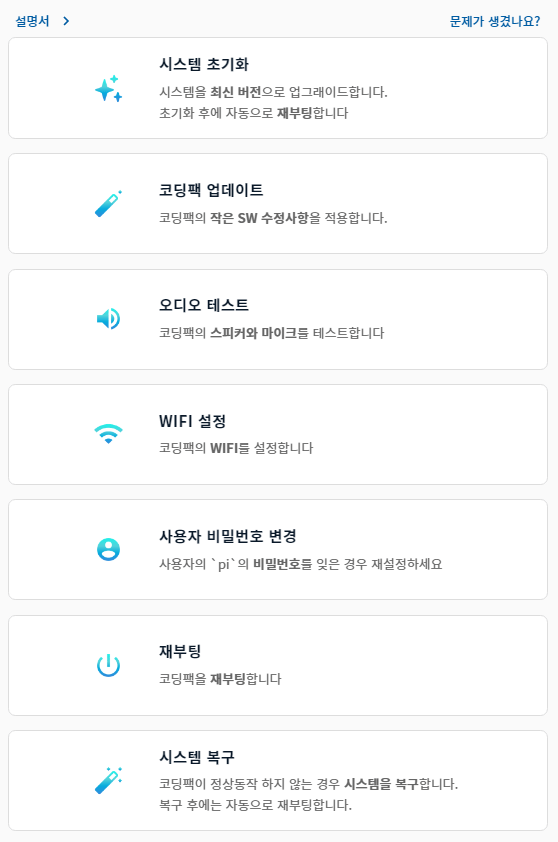
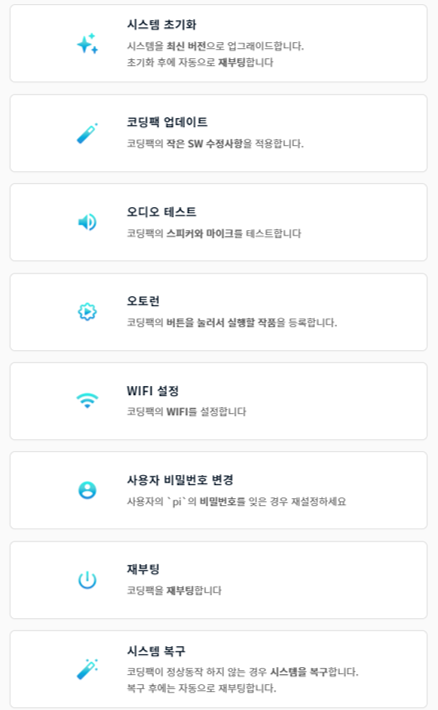
오토런 가이드 추가

diff --git a/root/src/layout/mdx-post/MdxPostLayout.tsx b/root/src/layout/mdx-post/MdxPostLayout.tsx
@@ -146,6 +146,18 @@ function MdxPostLayout({ children, pageTitle }: Props) {
                     '& ul > li + li,& ol > li + li': {
                         mt: 0.5,
                     },
+                    '& ul': {
+                        marginTop: '0.5em',
+                        marginBottom: '0.25em',
+                    },
+                    '& ul ul': {
+                        marginTop: '0.3em',
+                        marginBottom: '0.25em',
+                    },
+                    '& p': {
+                        marginTop: '0.7em',
+                        marginBottom: '0.25em',
+                    },
                 }}
             >
                 <Box

diff --git a/root/src/layout/main/components/sidebar/Sidebar.tsx b/root/src/layout/main/components/sidebar/Sidebar.tsx
@@ -125,7 +125,7 @@ function Sidebar() {
                                         color: 'rgba(255,255,255,0.5)',
                                         fontSize: '0.75rem',
                                         display: 'inline-block',
-                                        pl: 6,
+                                        pl: 1,
                                         pt: '2px',
                                         pb: '0px',
                                         border: '1px solid rgba(255,255,255,0.0)',

diff --git a/root/src/layout/main/sidebar-menu-define.ts b/root/src/layout/main/sidebar-menu-define.ts
@@ -119,6 +119,11 @@ const menusTemp: (ILabel | IDivider | IMenu | ISection)[] = [
                 title: '코딩팩 설정시 문제 해결',
                 href: '/post-frame/hw-pc-codingpack-setup-help',
             },
+            {
+                type: 'menu',
+                title: '오토런 가이드',
+                href: '/post-frame/hw-pc-how-to-autorun',
+            },
         ],
     },
     { type: 'label', title: '개발자 가이드', mt: 1 },
